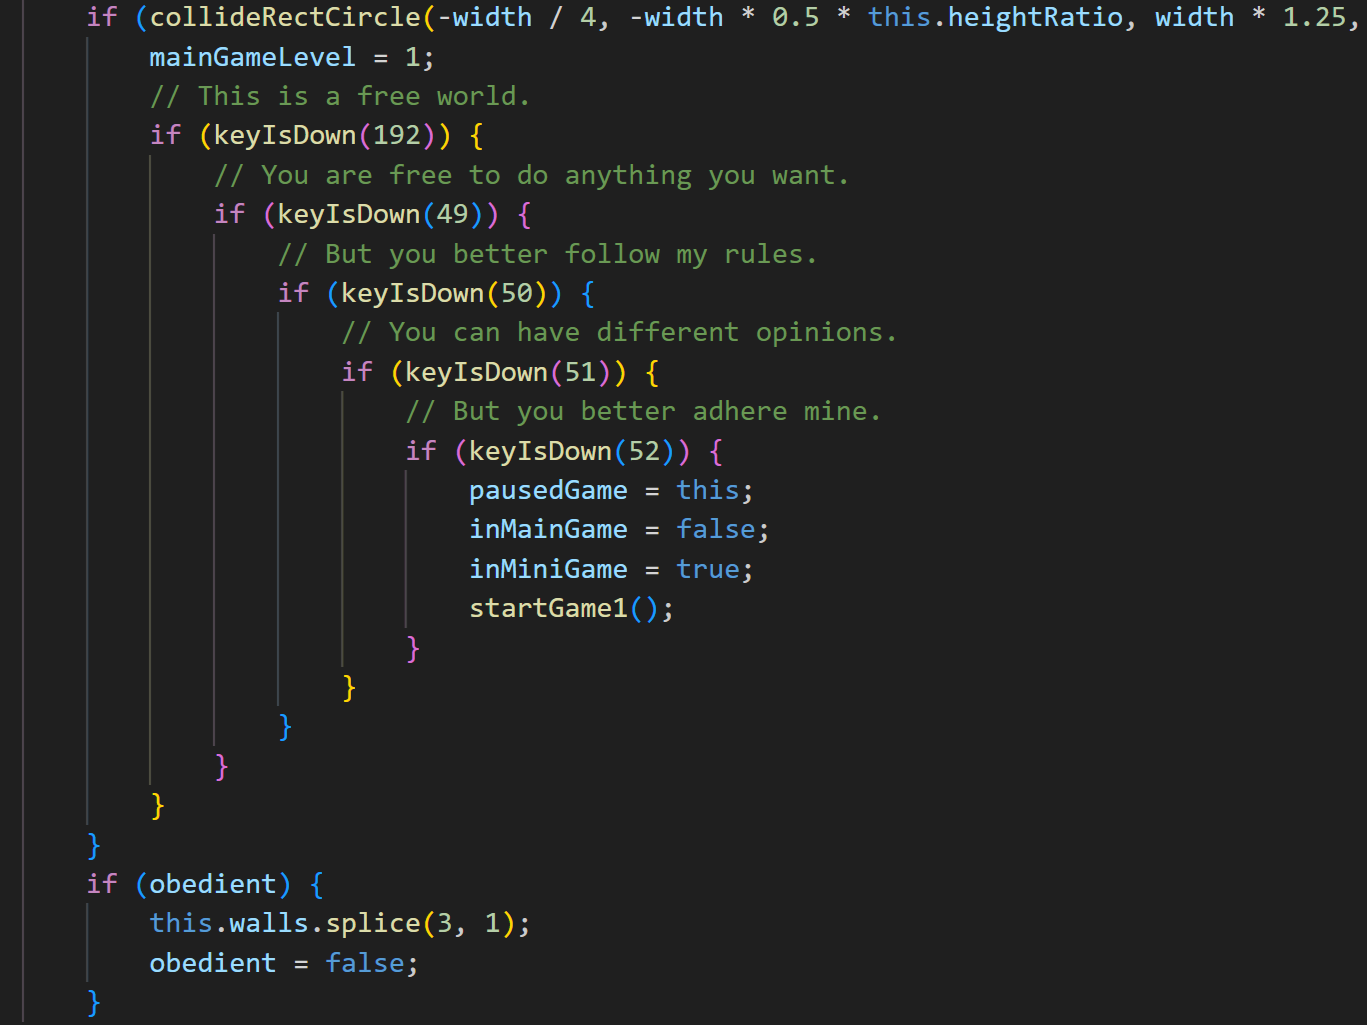
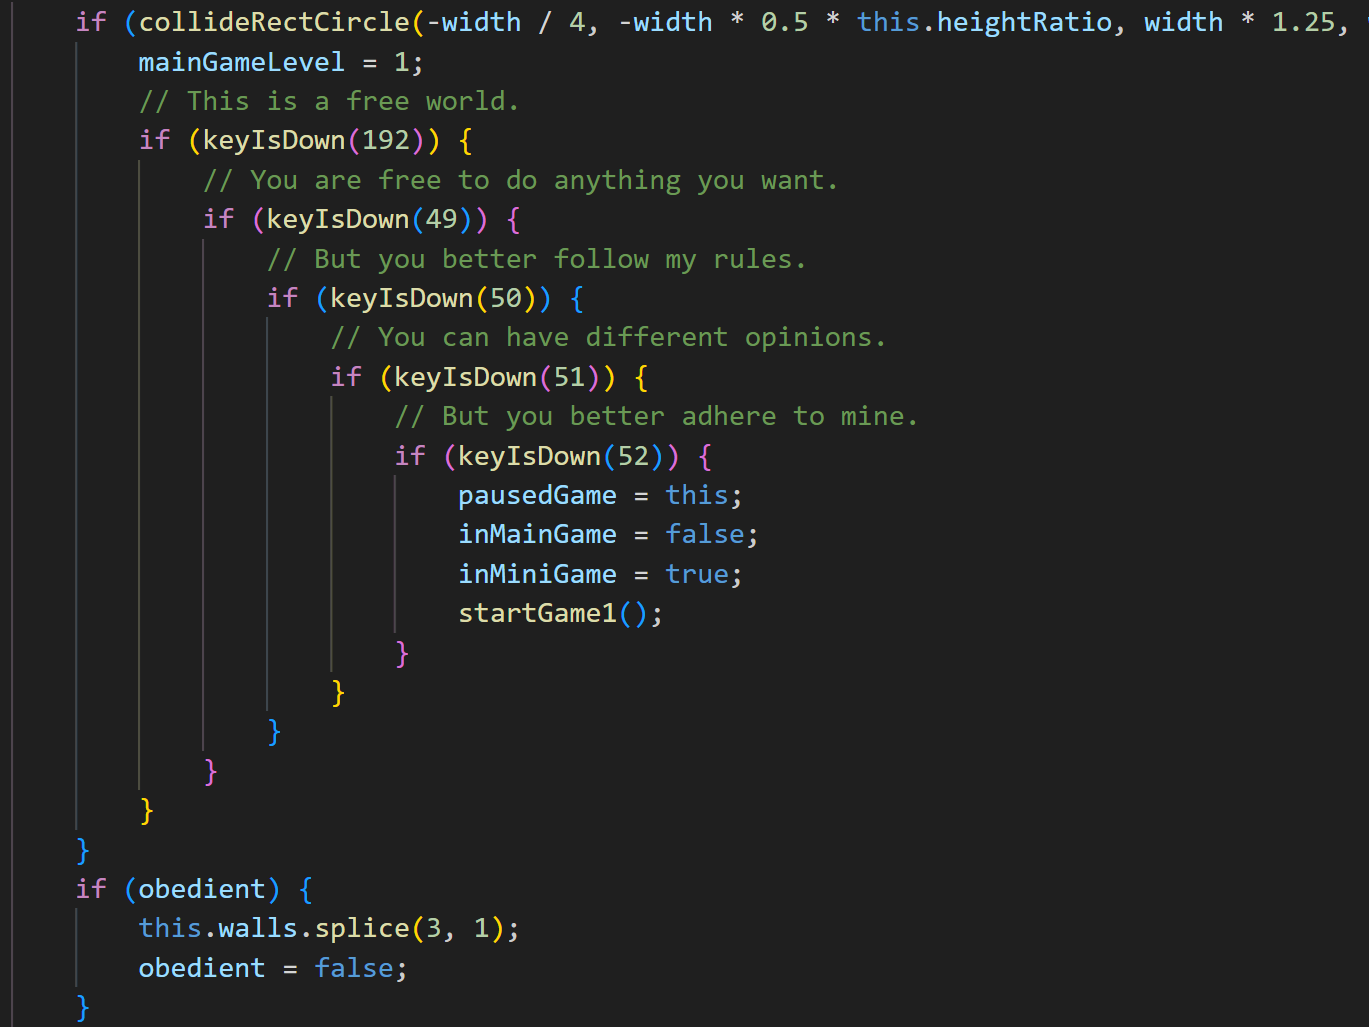
P2: level 2 functional, level 3 built
Level 2 can be completed and level 3 is set up to be coded (adding progress conditions & start game)

diff --git a/projects/project2/js/games/mainGame/MainGame.js b/projects/project2/js/games/mainGame/MainGame.js
@@ -47,7 +47,8 @@ class MainGame {
     setup() {
         this.user = new Player(width / 2, height / 2, width * 0.039, width * 7.8125E-5, (width * 1.953125E-3) * 2);
         this.user.texture = clownImage;
-        level1Passed = false;
+        levelsPassed = 0;
+        inlove = rich = false;
         Alien.size = width / 3;
         // this.createAliens();
         this.createWalls();
@@ -63,10 +64,6 @@ class MainGame {
             this.user.health = 100;
             this.user.x = width / 2;
             this.user.y = height / 2;
-            // this.wave = 1;
-            // this.evilClowns = [];
-            // this.userProjectiles = [];
-            // this.enemyProjectiles = [];
             this.restart = false;
         }
         //Start the first wave and variables
@@ -117,12 +114,6 @@ class MainGame {
         //runs the necessary calculations for the gameplay animation
         this.recalculate();
         this.draw();
-        // this.collisions();
-        // for (let evilClown of this.evilClowns) {
-        //     chaseFleeTarget(evilClown, this.user, 1);
-        // }
-        // this.projectileManagement();
-        // this.user.userHealthManagement();
     }
 
     recalculate() {
@@ -179,6 +170,7 @@ class MainGame {
             displayObjAsImage(wall, 3, undefined, this.cameraOffsetX, this.cameraOffsetY);
         }
         fill(255, 140);
+        rect(width * 2.25 + (this.wallThicc * 2) + this.cameraOffsetX, -width * 0.5 * this.heightRatio + this.cameraOffsetY, width * 1.25, width * 2 * this.heightRatio);
         rect(width + this.wallThicc + this.cameraOffsetX, -width * 0.5 * this.heightRatio + this.cameraOffsetY, width * 1.25, width * 2 * this.heightRatio);
         rect(-width / 4 + this.cameraOffsetX, -width * 0.5 * this.heightRatio + this.cameraOffsetY, width * 1.25, width * 2 * this.heightRatio);
     }
@@ -189,13 +181,13 @@ class MainGame {
         let topWall = {
             x: this.wallTopX,
             y: this.wallTopY,
-            w: width * 3,
+            w: width * 5,
             h: this.wallThicc,
             texture: wallTexture
         }, bottomWall = {
             x: this.wallTopX,
             y: width * 1.5 * this.heightRatio,
-            w: width * 3,
+            w: width * 5,
             h: this.wallThicc,
             texture: wallTexture
         }, leftWall = {
@@ -216,9 +208,15 @@ class MainGame {
             w: this.wallThicc,
             h: this.wallHeight,
             texture: wallTexture
+        }, level3Wall = {
+            x: width * 3.5 + (this.wallThicc * 2),
+            y: this.wallTopY,
+            w: this.wallThicc,
+            h: this.wallHeight,
+            texture: wallTexture
         }
         //adds the walls to their array
-        this.walls.push(topWall, bottomWall, leftWall, level1Wall, level2Wall);
+        this.walls.push(topWall, bottomWall, leftWall, level1Wall, level2Wall, level3Wall);
     }
 
     levels() {
@@ -232,22 +230,38 @@ class MainGame {
                     if (keyIsDown(50)) {
                         // You can have different opinions.
                         if (keyIsDown(51)) {
-                            // But you better adhere mine.
+                            // But you better adhere to mine.
                             if (keyIsDown(52)) {
-                                pausedGame = this;
-                                inMainGame = false;
-                                inMiniGame = true;
-                                startGame1();
+                                this.launchMinigameProcess()
+                                startGames(1);
                             }
                         }
                     }
                 }
+            } if (obedient && levelsPassed === 0) {
+                this.walls.splice(3, 1);
+                obedient = false;
+                levelsPassed = 1;
             }
-        }
-        if (obedient && !level1Passed) {
-            this.walls.splice(3, 1);
-            obedient = false;
-            level1Passed = true;
+        } else if (collideRectCircle(width + this.wallThicc, -width * 0.5 * this.heightRatio, width * 1.25, width * 2 * this.heightRatio, this.user.x, this.user.y, this.user.size)) {
+            mainGameLevel = 2;
+            // Tryin' to make ends meet
+            if (keyIsDown(192) &&
+                // You're a slave to the money then you die.
+                !(keyIsDown(49) || !keyIsDown(50))) {
+                // I have everything you ever wanted.
+                if (!(keyIsDown(51) || !keyIsDown(52))) {
+                    this.launchMinigameProcess();
+                    startGames(2);
+                }
+            } if (obedient && levelsPassed === 1) {
+                this.walls.splice(3, 1);
+                obedient = false;
+                levelsPassed = 2;
+            }
+        } else if (collideRectCircle(width * 2.25 + (this.wallThicc * 2), -width * 0.5 * this.heightRatio, width * 1.25, width * 2 * this.heightRatio, this.user.x, this.user.y, this.user.size)) {
+            mainGameLevel = 3;
+
         }
     }
 
@@ -255,5 +269,11 @@ class MainGame {
     updateMousePositions(mouseObject) {
         mouseObject.x = mouseX;
         mouseObject.y = mouseY;
+    }
+
+    launchMinigameProcess() {
+        pausedGame = this;
+        inMainGame = false;
+        inMiniGame = true;
     }
 }

diff --git a/projects/project2/js/script.js b/projects/project2/js/script.js
@@ -11,7 +11,8 @@
 let menus;
 let game, pausedGame;
 let obedient = false;
-let level1Passed = false;
+let levelsPassed = false;
+let inlove, rich;
 let inMainGame, inMiniGame, vaccinations, mainGameLevel;
 let sameMouseClick = false, sameEsc = false;
 let clownImage, clownetteImage, evilClownImage;
@@ -44,6 +45,7 @@ function setup() {
     createCanvas(windowWidth, windowHeight);
     textSize(width * 0.03);
     inMainGame = inMiniGame = false;
+    inlove = rich = false;
     menus = new Menus();
     game = new MainGame();
     game.setup();
@@ -61,7 +63,24 @@ function draw() {
     }
 }
 
-function startGame1() {
-    game = new DodgeEm();
+function startGames(number) {
+    switch (number) {
+        case 1:
+            game = new DodgeEm();
+            game.setup();
+            break;
+        case 2:
+            game = new LoveActually();
+            game.setup();
+            break;
+        default:
+            console.log("invalid game number");
+            break;
+    }
+}
+
+
+function startGame2() {
+    game = new LoveActually();
     game.setup();
 }

diff --git a/projects/project2/js/menus/Menus.js b/projects/project2/js/menus/Menus.js
@@ -102,11 +102,21 @@ class Menus {
             if (inMainGame && !sameEsc) {
                 this.state = `mainMenu`;
             } else if (inMiniGame) {
+                noStroke();
                 if (mainGameLevel === 1) {
                     // I won't force you to do anything.
                     if (vaccinations >= 2) {
                         obedient = true;
                         // But you should listen to me.
+                    }
+                    inMiniGame = false;
+                    inMainGame = true;
+                    sameEsc = true;
+                    game = pausedGame;
+                } else if (mainGameLevel === 2) {
+                    // I just want you to be happy.
+                    if (vaccinations >= 4 && inLove) {
+                        obedient = true;
                     }
                     inMiniGame = false;
                     inMainGame = true;
@@ -125,3 +135,11 @@ class Menus {
         }
     }
 }
+
+
+//
+//
+//
+//
+//
+//

diff --git a/projects/project2/js/games/soloGames/LoveActually.js b/projects/project2/js/games/soloGames/LoveActually.js
@@ -75,6 +75,7 @@ class LoveActually {
         for (let i = 0; i < 3000; i++) { //thats alot of money!
             image(moneyImage, random(-this.money.size / 2, width), random(-this.money.size / 2, height), this.money.size, this.money.size);
         }
+        inlove = true;
         push();
         rectMode(CENTER);
         fill(0, 0, 0, 120)
@@ -92,6 +93,7 @@ class LoveActually {
         for (let i = 0; i < 3000; i++) { //thats alot of money!
             image(moneyImage, random(-this.money.size / 2, width), random(-this.money.size / 2, height), this.money.size, this.money.size);
         }
+        rich = true;
         push();
         rectMode(CENTER);
         fill(0, 0, 0, 120)
